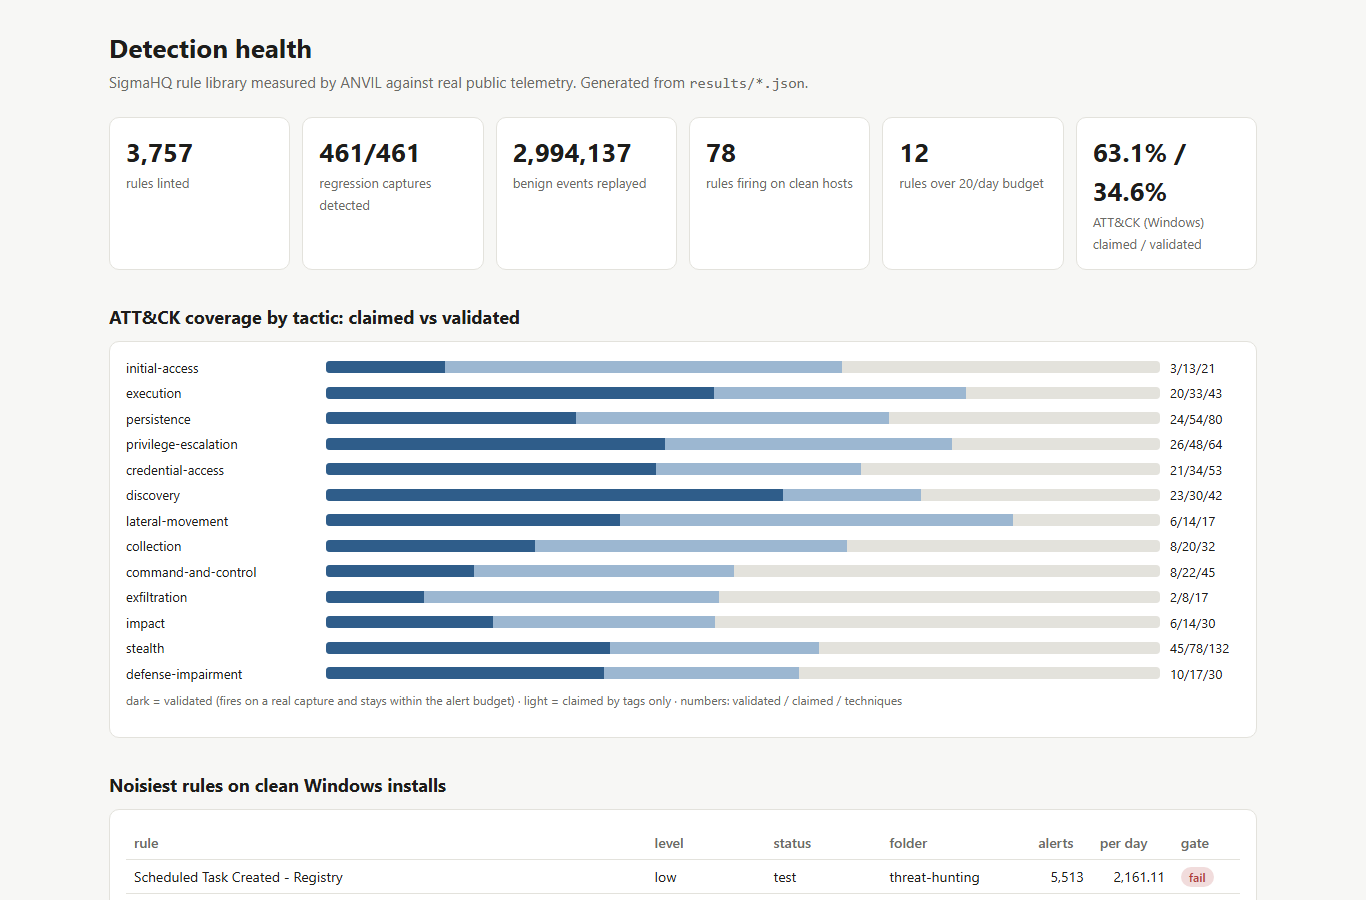
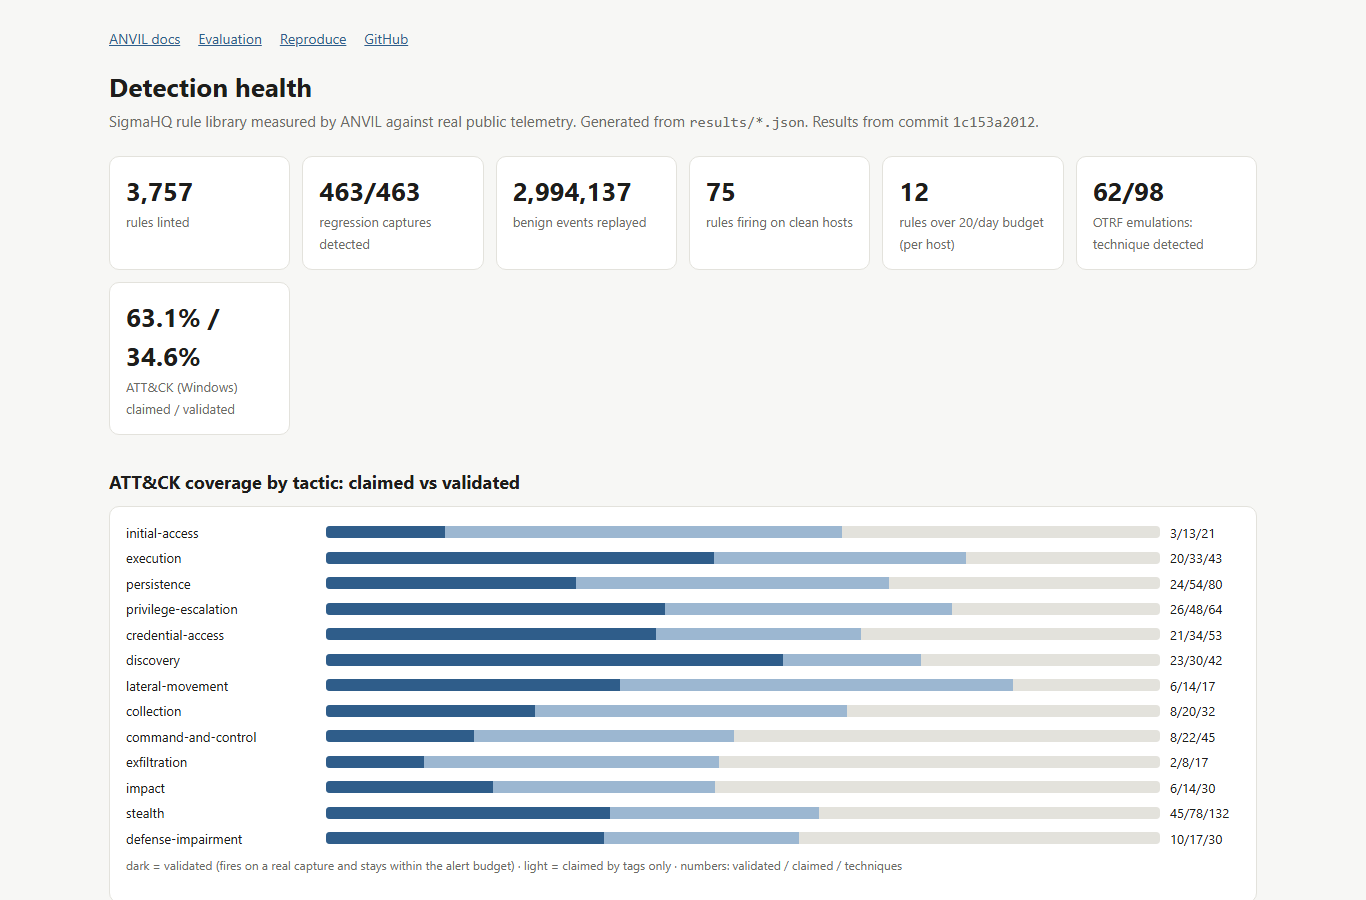
docs: changelog Unreleased entry and refreshed dashboard screenshot

Changed region(s): [[0.0615, 0.3422, 0.8917, 0.9956], [0.0615, 0.0311, 0.7687, 0.28], [0.7994, 0.1556, 0.8917, 0.28]]

diff --git a/CHANGELOG.md b/CHANGELOG.md
@@ -2,6 +2,22 @@
 
 All notable changes to this project are documented here. The format follows [Keep a Changelog](https://keepachangelog.com/en/1.1.0/) and the project uses [semantic versioning](https://semver.org/).
 
+## Unreleased
+
+### Added
+- Linux (Sysmon for Linux, auditd raw and `ausearch -i`) and AWS CloudTrail parsers and routing (ADR 0007); opt-in `nixcloud` download of Splunk attack_data and OTRF Linux/AWS captures; Linux/AWS benchmark stage.
+- `bench` workflow: full benchmark on a clean runner with fresh, checksum-verified downloads (covers files AV blocks locally), live benign Linux telemetry, and an OpenSearch real-backend cross-check (`benchmarks/backend_opensearch.py`).
+- Decay ablation against per-source and global field-presence checks, with Wilson CIs and the false-alarm floor; fleet-size projection of the alert budget; strict vs lenient OTRF technique matching; bootstrap CIs over rules for the FP model; provenance (git SHA, versions, pins) in every results file.
+- Docs: How it works, Evaluation, Reproduce pages; dashboard screenshot; Try it in 60 seconds. CITATION.cff, CODEOWNERS, dependabot, issue forms, PR template.
+
+### Changed
+- Published numbers now come from one CI run. Several got worse and are published as such: OTRF technique detected 62/98 strict (was 67/96, which credited sibling sub-techniques); the level heuristic's precision@k advantage was a tie-breaking artefact; 75 rules fire on benign hosts (was 78) after `file_delete` routes to Sysmon 23 only.
+- The 4688-without-command-line decay scenario now strips CommandLine fleet-wide (recall 95%); the old mixed-inventory variant (31%) is kept as its own row.
+- CLI: every `--rules` path is loaded (files included); missing paths and empty rule sets fail; missing files and extras give one-line errors.
+- Drafter no longer mangles `rundll32`, `runas`, `cmdkey` or drops `cmd.exe` lines.
+- Downloads fail closed on missing checksums; zip-slip guard; AV-blocked files are skipped, never processed locally.
+- CI: Python 3.14 and a fast/evtx leg, wheel/sdist/Docker smoke tests, pip-audit, SHA-pinned actions, scoped permissions, timeouts; release notes extracted from this file.
+
 ## [1.0.0] - 2026-09-26
 
 ### Added
@@ -47,3 +63,5 @@ Real-data release: ANVIL now runs the full SigmaHQ library against public attack
 ## [0.1.0] - 2026-09-25
 
 - MVP: Sigma-like engine subset, lint, TP/TN fixture harness, FP/SOC-capacity gate, bundled ATT&CK subset coverage, quality score, schema-drift decay check and synthetic telemetry.
+
+[1.0.0]: https://github.com/rakshit-737/anvil/releases/tag/v1.0.0
